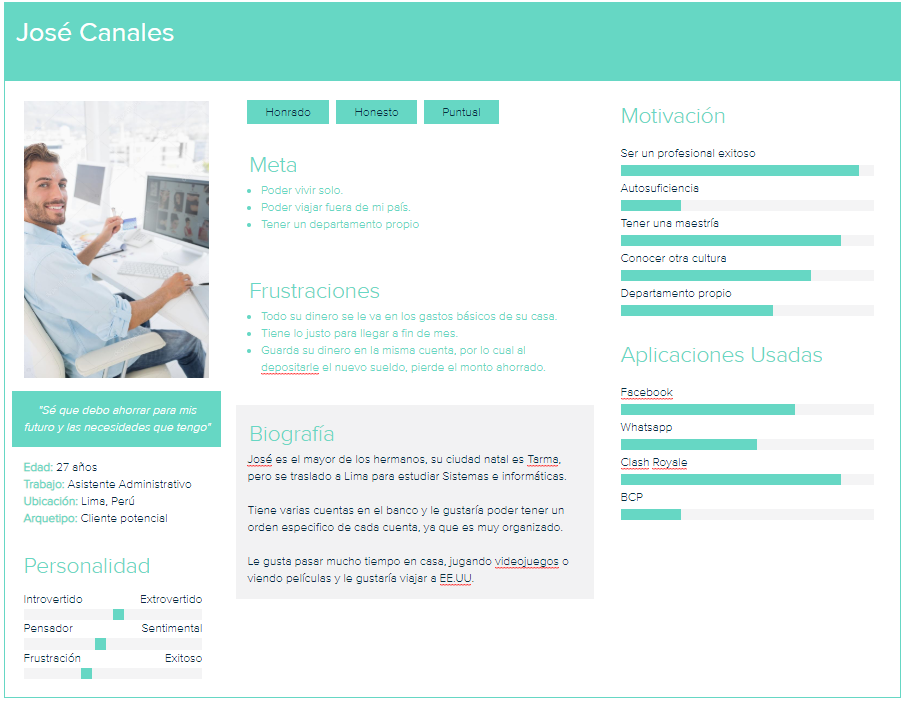
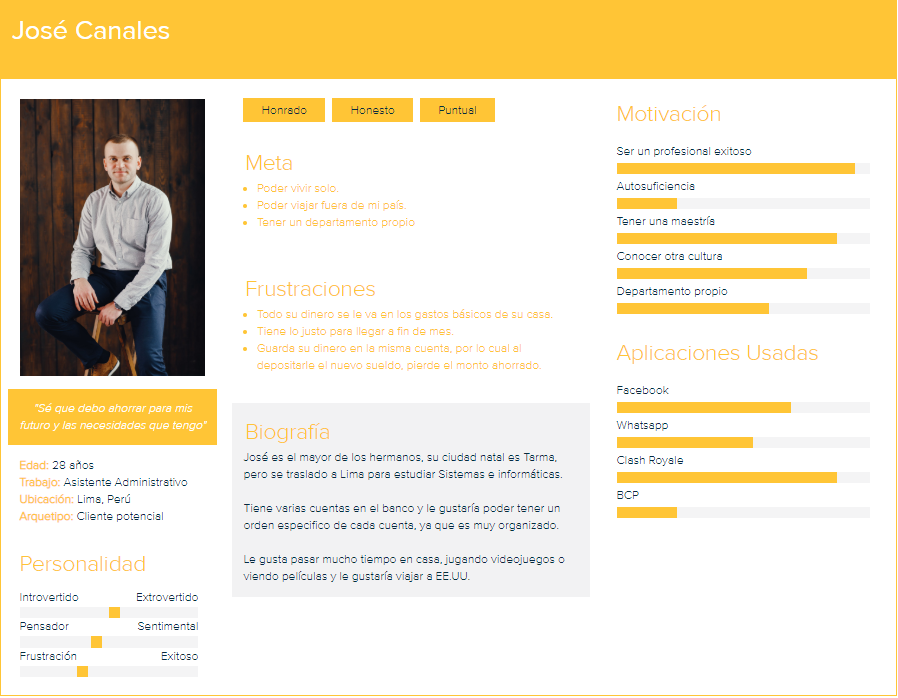
User Personas actualizadas

diff --git a/README.md b/README.md
@@ -118,7 +118,7 @@ Con el entendimiento del Problema (Negocio y Usuario) y el análisis de la Data,
 
 ![User Persona Primario](https://user-images.githubusercontent.com/34355830/46150229-b6271200-c231-11e8-9c30-d14844fb0487.png)
 
-![User Persona Secundario](https://user-images.githubusercontent.com/34355830/46150267-cc34d280-c231-11e8-8587-ad043bc8416c.png)
+![User Persona Secundario](https://user-images.githubusercontent.com/34355830/46150869-369a4280-c233-11e8-8acf-eb3f57d6f05d.png)
 
 ## IDEACION
 
